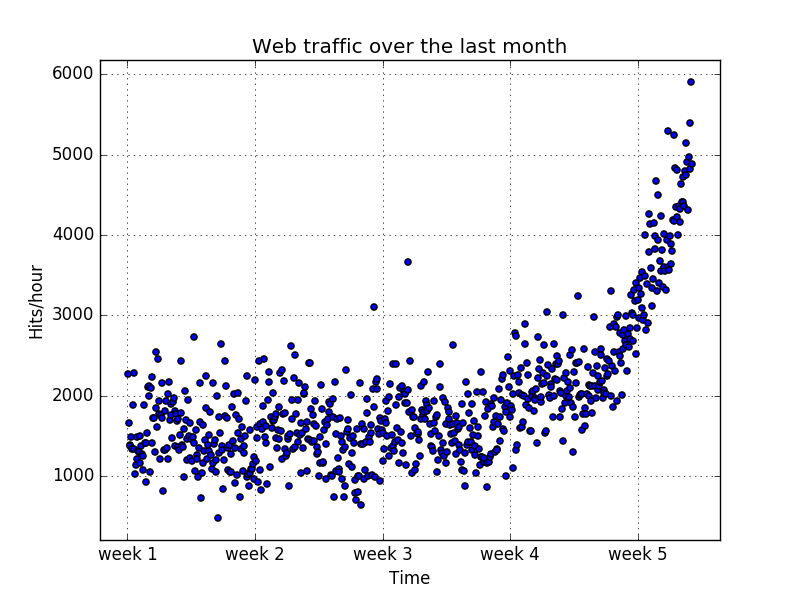
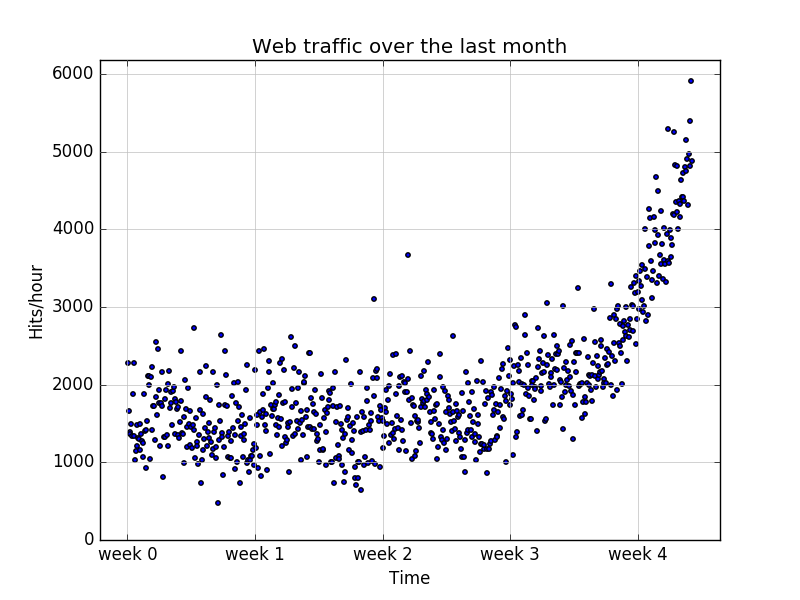
full version

diff --git a/Building Machine Learning System with Python/ch1Getting Started with Python Machine Learning/i9full_analyze.py b/Building Machine Learning System with Python/ch1Getting Started with Python Machine Learning/i9full_analyze.py
@@ -1,0 +1,160 @@
+
+import os
+from utils import DATA_DIR, CHART_DIR
+import scipy as sp
+import matplotlib.pyplot as plt
+
+sp.random.seed(3)  # to reproduce the data later on
+
+data = sp.genfromtxt(os.path.join(DATA_DIR, "web_traffic.tsv"), delimiter="\t")
+print(data[:10])
+print(data.shape)
+
+# all examples will have three classes in this file
+colors = ['g', 'k', 'b', 'm', 'r']
+linestyles = ['-', '-.', '--', ':', '-']
+
+x = data[:, 0]
+y = data[:, 1]
+print("Number of invalid entries:", sp.sum(sp.isnan(y)))
+x = x[~sp.isnan(y)]
+y = y[~sp.isnan(y)]
+
+def plot_models(x,y, models, fname, mx=None, ymax=None, xmin=None):
+
+    plt.figure(num=None, figsize=(8, 6))
+    plt.clf()
+    plt.scatter(x, y, s=10)
+    plt.title("Web traffic over the last month")
+    plt.xlabel("Time")
+    plt.ylabel("Hits/hour")
+    plt.xticks(
+        [w * 7 * 24 for w in range(10)], ['week %i' % w for w in range(10)])
+
+    if models:
+        if mx is None:
+            mx = sp.linspace(0, x[-1], 1000)
+        for model, style, color in zip(models, linestyles, colors):
+            # print "Model:",model
+            # print "Coeffs:",model.coeffs
+            plt.plot(mx, model(mx), linestyle=style, linewidth=2, c=color)
+
+        plt.legend(["d=%i" % m.order for m in models], loc="upper left")
+
+    plt.autoscale(tight=True)
+    plt.ylim(ymin=0)
+    if ymax:
+        plt.ylim(ymax=ymax)
+    if xmin:
+        plt.xlim(xmin=xmin)
+    plt.grid(True, linestyle='-', color='0.75')
+    plt.savefig(fname)
+
+
+# first look at the data
+plot_models(x, y, None, os.path.join(CHART_DIR, "1400_01_01.png"))
+
+# create and plot models
+fp1, res1, rank1, sv1, rcond1 = sp.polyfit(x, y, 1, full=True)
+print("Model parameters of fp1: %s" % fp1)
+print("Error of the model of fp1:", res1)
+f1 = sp.poly1d(fp1)
+
+fp2, res2, rank2, sv2, rcond2 = sp.polyfit(x, y, 2, full=True)
+print("Model parameters of fp2: %s" % fp2)
+print("Error of the model of fp2:", res2)
+f2 = sp.poly1d(fp2)
+f3 = sp.poly1d(sp.polyfit(x, y, 3))
+f10 = sp.poly1d(sp.polyfit(x, y, 10))
+f100 = sp.poly1d(sp.polyfit(x, y, 100))
+
+plot_models(x, y, [f1], os.path.join(CHART_DIR, "1400_01_02.png"))
+plot_models(x, y, [f1, f2], os.path.join(CHART_DIR, "1400_01_03.png"))
+plot_models(
+    x, y, [f1, f2, f3, f10, f100], os.path.join(CHART_DIR, "1400_01_04.png"))
+
+
+# fit and plot a model using the knowledge about inflection point
+inflection = 3.5 * 7 * 24
+xa = x[:inflection]
+ya = y[:inflection]
+xb = x[inflection:]
+yb = y[inflection:]
+
+fa = sp.poly1d(sp.polyfit(xa, ya, 1))
+fb = sp.poly1d(sp.polyfit(xb, yb, 1))
+
+plot_models(x, y, [fa, fb], os.path.join(CHART_DIR, "1400_01_05.png"))
+
+
+
+def error(f, x, y):
+    return sp.sum((f(x) - y) ** 2)
+
+print("Errors for the complete data set:")
+for f in [f1, f2, f3, f10, f100]:
+    print("Error d=%i: %f" % (f.order, error(f, x, y)))
+
+print("Errors for only the time after inflection point")
+for f in [f1, f2, f3, f10, f100]:
+    print("Error d=%i: %f" % (f.order, error(f, xb, yb)))
+
+print("Error inflection=%f" % (error(fa, xa, ya) + error(fb, xb, yb)))
+
+
+
+# extrapolating into the future
+plot_models(
+    x, y, [f1, f2, f3, f10, f100],
+    os.path.join(CHART_DIR, "1400_01_06.png"),
+    mx=sp.linspace(0 * 7 * 24, 6 * 7 * 24, 100),
+    ymax=10000, xmin=0 * 7 * 24)
+
+print("Trained only on data after inflection point")
+fb1 = fb
+fb2 = sp.poly1d(sp.polyfit(xb, yb, 2))
+fb3 = sp.poly1d(sp.polyfit(xb, yb, 3))
+fb10 = sp.poly1d(sp.polyfit(xb, yb, 10))
+fb100 = sp.poly1d(sp.polyfit(xb, yb, 100))
+
+print("Errors for only the time after inflection point")
+for f in [fb1, fb2, fb3, fb10, fb100]:
+    print("Error d=%i: %f" % (f.order, error(f, xb, yb)))
+
+plot_models(
+    x, y, [fb1, fb2, fb3, fb10, fb100],
+    os.path.join(CHART_DIR, "1400_01_07.png"),
+    mx=sp.linspace(0 * 7 * 24, 6 * 7 * 24, 100),
+    ymax=10000, xmin=0 * 7 * 24)
+
+
+# separating training from testing data
+frac = 0.3
+split_idx = int(frac * len(xb))
+shuffled = sp.random.permutation(list(range(len(xb))))
+test = sorted(shuffled[:split_idx])
+train = sorted(shuffled[split_idx:])
+fbt1 = sp.poly1d(sp.polyfit(xb[train], yb[train], 1))
+fbt2 = sp.poly1d(sp.polyfit(xb[train], yb[train], 2))
+print("fbt2(x)= \n%s" % fbt2)
+print("fbt2(x)-100,000= \n%s" % (fbt2-100000))
+fbt3 = sp.poly1d(sp.polyfit(xb[train], yb[train], 3))
+fbt10 = sp.poly1d(sp.polyfit(xb[train], yb[train], 10))
+fbt100 = sp.poly1d(sp.polyfit(xb[train], yb[train], 100))
+
+
+print("Test errors for only the time after inflection point")
+for f in [fbt1, fbt2, fbt3, fbt10, fbt100]:
+    print("Error d=%i: %f" % (f.order, error(f, xb[test], yb[test])))
+
+plot_models(
+    x, y, [fbt1, fbt2, fbt3, fbt10, fbt100],
+    os.path.join(CHART_DIR, "1400_01_08.png"),
+    mx=sp.linspace(0 * 7 * 24, 6 * 7 * 24, 100),
+    ymax=10000, xmin=0 * 7 * 24)
+
+from scipy.optimize import fsolve
+print(fbt2)
+print(fbt2 - 100000)
+reached_max = fsolve(fbt2 - 100000, x0=800) / (7 * 24)
+print("100,000 hits/hour expected at week %f" % reached_max[0])
